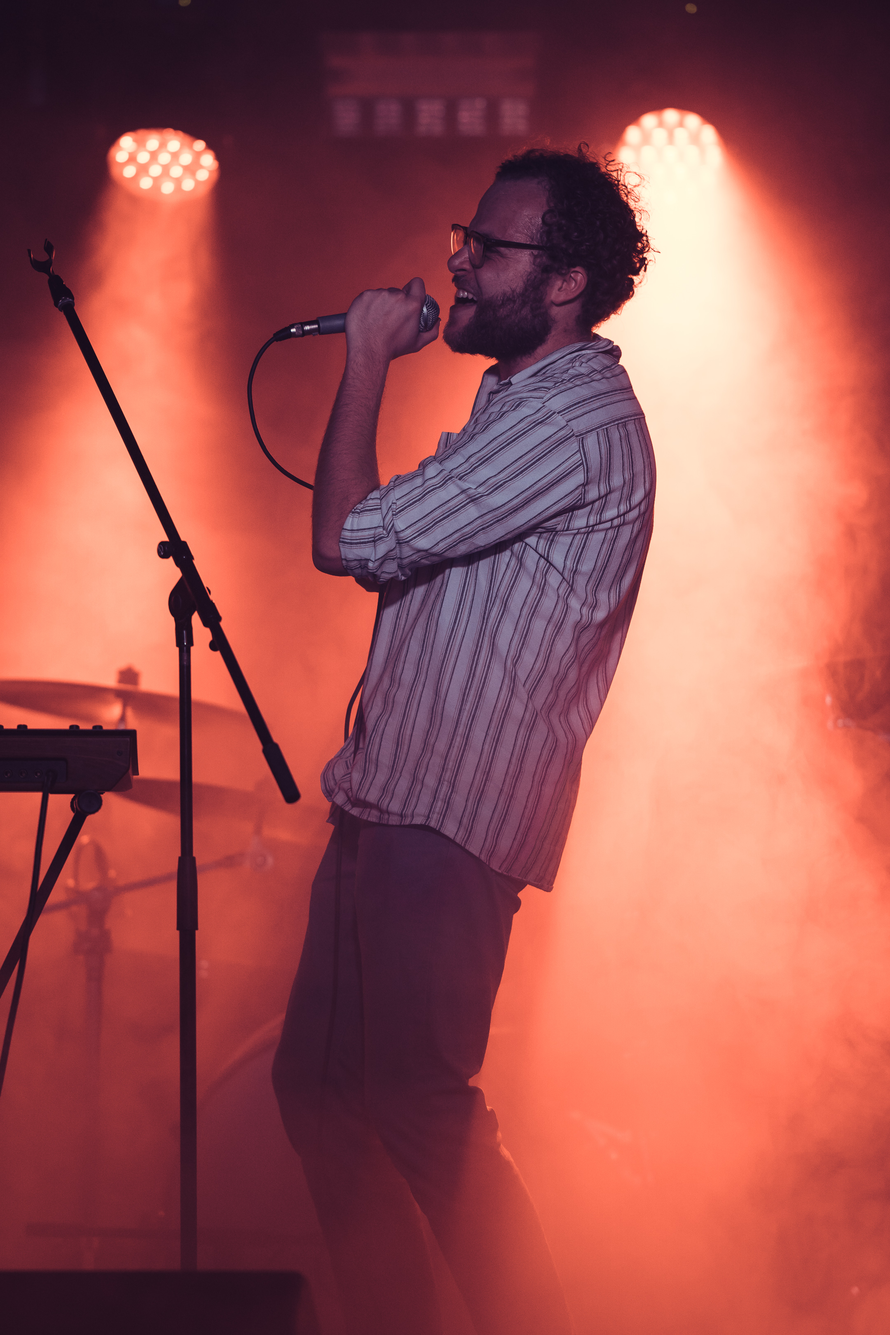
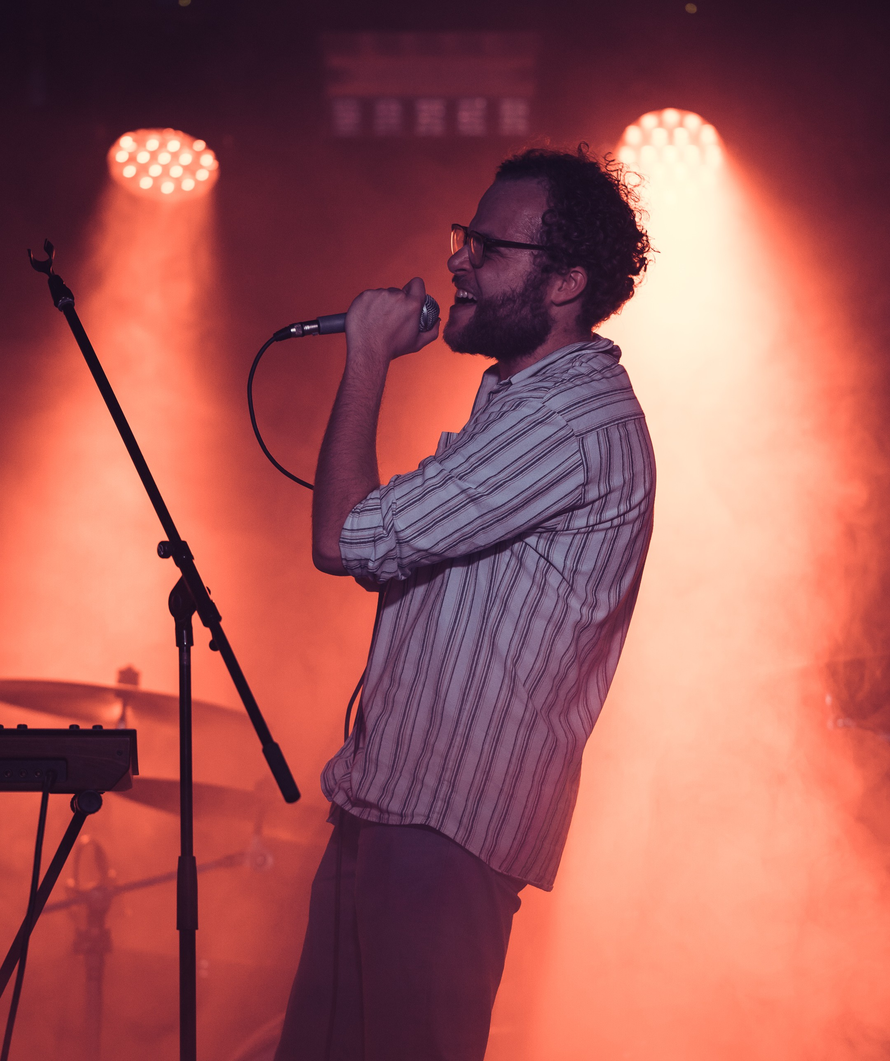
gallery kinda done

diff --git a/gallery.html b/gallery.html
@@ -6,11 +6,11 @@ permalink: /gallery/
 
 <div class="portfolio">
     <div class="portfolio-list container">
-        <div class="portfolio-container row isotope" id="portfolio-container">
+        <div class="portfolio-container row">
             <div class="col-md-4 col-sm-6 col-xs-12 col-sm-6 col-xs-12 portfolio-item artwork">
                 <a href="portfolio-single.html">
                     <div class="portfolio-column">
-                        {% picture default matt2.jpg desktop: matt2.jpg 2:3 %}
+                        {% picture default matt2.jpg 4:3 %}
                     </div>
                 </a>
             </div>
@@ -26,7 +26,7 @@ permalink: /gallery/
             <div class="col-md-4 col-sm-6 col-xs-12 portfolio-item webdesign">
                 <a href="portfolio-single.html">
                     <div class="portfolio-column">
-                        {% picture default ivo1.jpg desktop: ivo1.jpg 2:3 %}
+                        {% picture default ivo1.jpg 4:3 center %}
                     </div>
                 </a>
             </div>
@@ -34,7 +34,7 @@ permalink: /gallery/
             <div class="col-md-4 col-sm-6 col-xs-12 portfolio-item artwork">
                 <a href="portfolio-single.html">
                     <div class="portfolio-column">
-                        {% picture default aris1.jpg 4:3 %}
+                        {% picture default aris1.jpg 4:3 center %}
                     </div>
                 </a>
             </div>
@@ -42,7 +42,7 @@ permalink: /gallery/
             <div class="col-md-4 col-sm-6 col-xs-12 col-sm-6 col-xs-12 portfolio-item artwork">
                 <a href="portfolio-single.html">
                     <div class="portfolio-column">
-                        {% picture default matt1.jpg 4:3 center %}
+                        {% picture default matt1.jpg 4:3 %}
                     </div>
                 </a>
             </div>
@@ -50,7 +50,7 @@ permalink: /gallery/
             <div class="col-md-4 col-sm-6 col-xs-12 portfolio-item webdesign">
                 <a href="portfolio-single.html">
                     <div class="portfolio-column">
-                        {% picture default david2.jpg desktop: david2.jpg 2:3 %}
+                        {% picture default david2.jpg 4:3 %}
                     </div>
                 </a>
             </div>

diff --git a/assets/js/klass/main.js b/assets/js/klass/main.js
@@ -3,8 +3,8 @@ $(window).on("load", function() {
 
     "use strict";
 
-    //Preloader
-	  $("#preloader").delay(200).fadeOut("slow");
+	//Preloader
+	//   $("#preloader").delay(200).fadeOut("slow");
 
 
     // Mobile Menu
@@ -24,33 +24,6 @@ $(window).on("load", function() {
     });
 
 
-
-
-    // Portfolio Masonry
-    var $container = $('#portfolio-container');
-    $container.isotope({
-      masonry: {
-       columnWidth: '.portfolio-item'
-      },
-      itemSelector: '.portfolio-item'
-    });
-    $('#filters').on( 'click', 'li', function() {
-      $('#filters li').removeClass('active');
-      $(this).addClass('active');
-      var filterValue = $(this).attr('data-filter');
-      $container.isotope({ filter: filterValue });
-    });
-
-    // Blog Masonry
-    var $blog_container = $('#main-blog-container');
-    $blog_container.isotope({
-      masonry: {
-       columnWidth: '.blog-item'
-      },
-      itemSelector: '.blog-item'
-    });
-
-
 });
 
 // Sticky Menu
@@ -60,5 +33,6 @@ $(window).scroll(function() {
     } else {
         $("#sticky").removeClass("sticky");
     }
-
 });
+
+

diff --git a/_includes/scripts.html b/_includes/scripts.html
@@ -1,6 +1,5 @@
 <!-- Javascript -->
-<script src="{{ "/assets/js/klass/jquery-3.1.1.min.js" | relative_url }}"></script>
-<script src="{{ "/assets/js/klass/isotope.pkgd.min.js" | relative_url }}"></script>
-<script src="{{ "/assets/js/klass/wow.min.js" | relative_url }}"></script>
+<!--<script src="{{ "/assets/js/klass/isotope.pkgd.min.js" | relative_url }}"></script>-->
+<!--<script src="{{ "/assets/js/klass/wow.min.js" | relative_url }}"></script>-->
 <script src="{{ "/assets/js/klass/jquery-3.1.1.min.js" | relative_url }}"></script>
 <script src="{{ "/assets/js/klass/main.js" | relative_url }}"></script>

diff --git a/_sass/global.scss b/_sass/global.scss
@@ -144,3 +144,7 @@ a {
 .main-content {
 	padding: 150px 0 100px;
 }
+
+.portfolio-column:hover {
+	margin-top: 0;
+}
